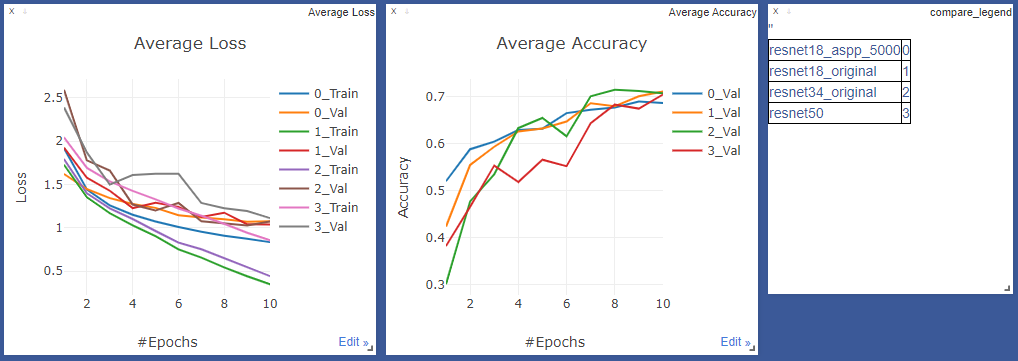
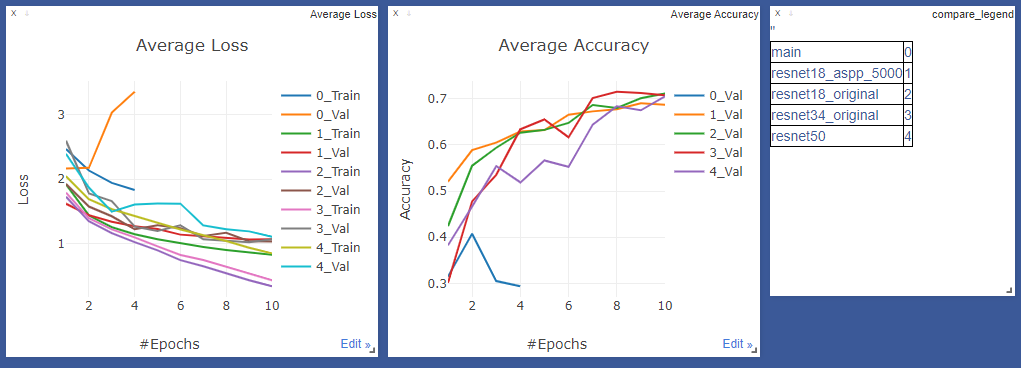
update readme.md

diff --git a/README.md b/README.md
@@ -4,7 +4,7 @@ Document classification with 16 classes. Trained using PyTorch and Ignite.
 I used 4000 images to train and 800 to validate for 10 epochs. To use less data I have fine tuned pretrained models.
 
 Images are resized to 256x512 to keep a close aspect ratio to the original.
-The models were trained using Adam for 10 epochs (I probably need to train for more) 
+The models were trained using Adam for 10 epochs.
 
 The models were trained with a batch size of 32.
 
@@ -17,8 +17,6 @@ Adjusted the learning rate every epoch using a polynomial learning rate schedule
 - Random translation to 0.1 * image size
 - random zooning [0.75, 1.25]
 
-![Training plots](./plots.png)
-
 # Results
 | Model  | Validation Accuracy | Test Accuracy | Batch Size
 | --- | --- | --- | --- |
@@ -27,10 +25,13 @@ Adjusted the learning rate every epoch using a polynomial learning rate schedule
 | ResNet50      | 70.50 | TODO | 16
 | ResNet18-ASPP*| 69.00 | TODO | 32
 
-*ResNet50-ASPP had a 5000 image train set and a 5000 image validation set.
-ResNet50 does not show signs of overfitting.
+*ResNet50-ASPP had different training and validation set sizes but I do not remember exactly how many 
+(I think it was 2000 training and 2000 validation or 5000 training and 5000 validation).
 
-ResNet-ASPP adds an ASPP layer after the third block
+Below are some plots with the training and validation losses as well as the validation accuracy of the models. 
+The model marked as main (0_Train, 0_Val) is ResNet-152. I stopped after 4 epochs due to overfitting (validation loss diverges).  
+
+![Training plots](./plots.png)
 
 I also tried training ResNet152, but I only have enough VRAM for batch size 6 and both training and validation losses 
 are worse than other models.
